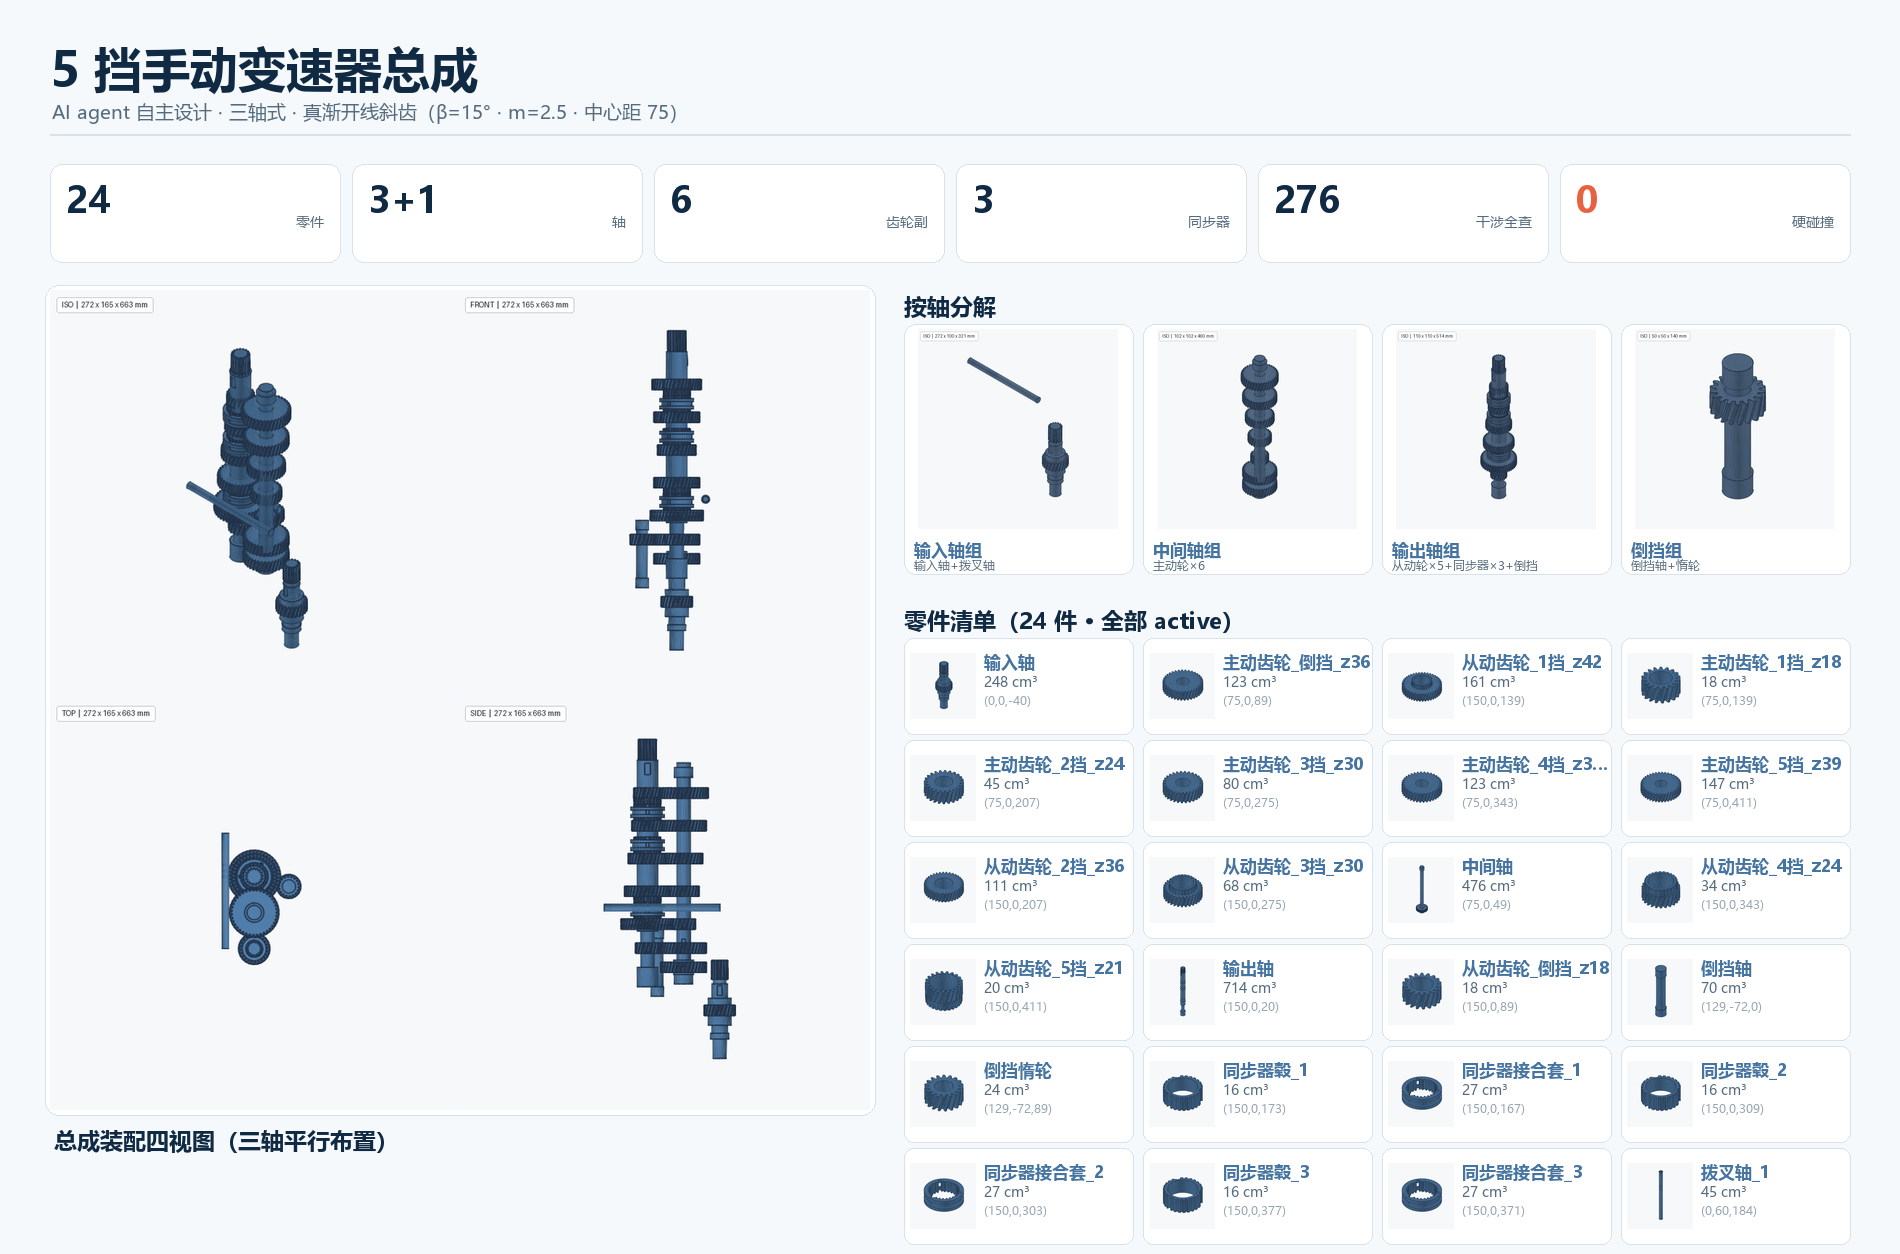
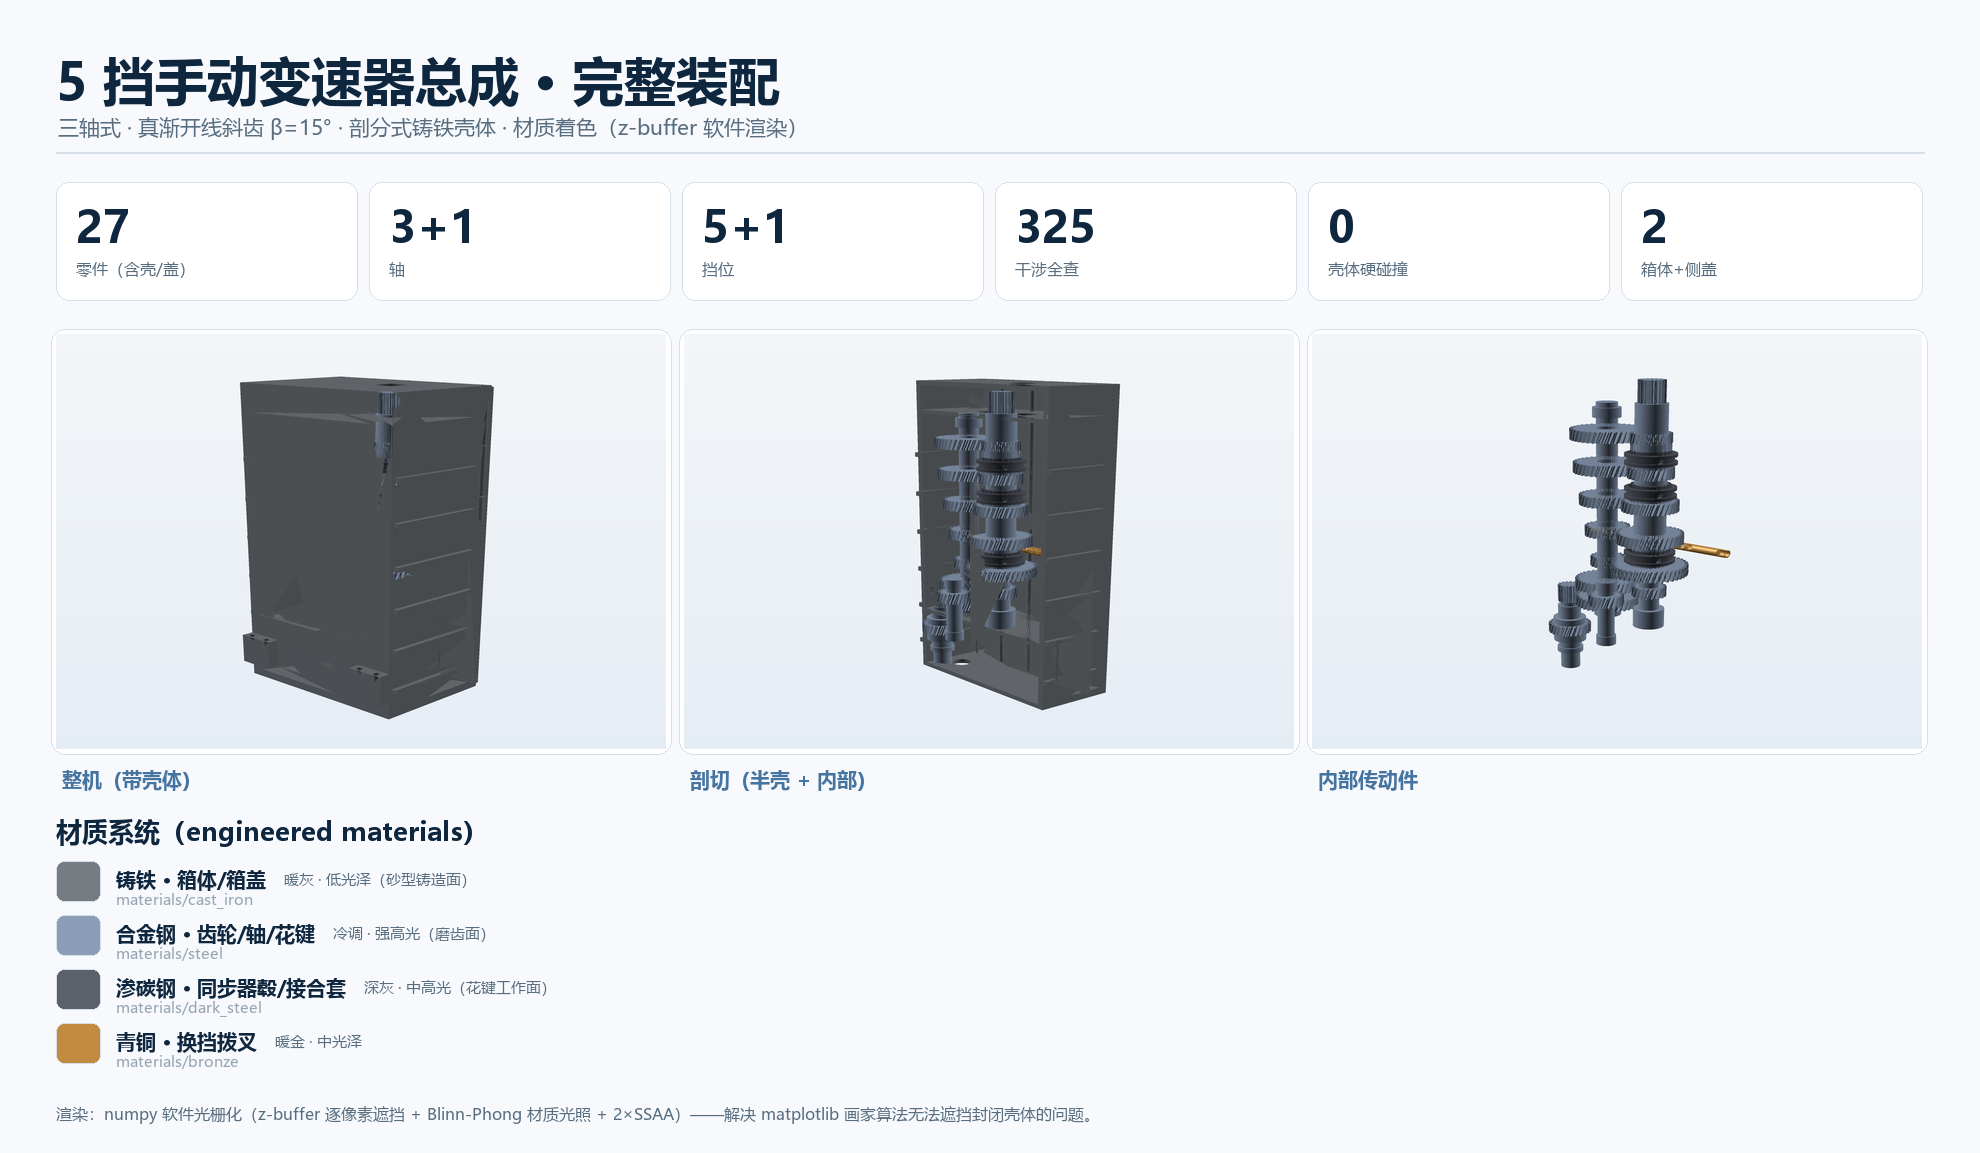
feat: complete transmission with housing + material rendering
Housing designed from the real assembly (envelope + measured shaft
journals): split cast-iron case with a +Y assembly opening, bolted side
cover, -Z input-shaft bearing housing, +Z output bearing housing, two
internal bearing webs, M8 flange bolt pattern, two mounting feet and
external stiffening ribs. Interference: 325 pairs, 0 housing hard
collisions (the input-shaft integral gear needed a widened web bore).

Rendered with the new kernel material system + z-buffer software
renderer: full case / cutaway (half shell) / internals views, with cast
iron, steel, dark carburised steel and bronze reading distinctly. Poster
and cutaway added to the landing page and README.

diff --git a/docs/index.html b/docs/index.html
@@ -559,8 +559,8 @@
     <span class="eyebrow-section">Transmission</span>
     <h2 class="section-title">5 挡手动<em>变速器总成</em></h2>
     <p class="section-subtitle">
-      同一 harness 一次设计出的三轴式手动变速器：输入/中间/输出三轴 + 倒挡轴，5 对常啮合<strong>真渐开线斜齿</strong>（β=15°，m=2.5，中心距 75）、倒挡惰轮、3 套同步器（毂+接合套）、换挡拨叉轴。
-      <br/>实测 24 件 / 276 对干涉全查 / 11 对啮合与配合按 category 豁免 / <strong>硬碰撞 0</strong>。
+      完整变速器总成：输入/中间/输出三轴 + 倒挡轴，5 对常啮合<strong>真渐开线斜齿</strong>（β=15°，m=2.5，中心距 75）、倒挡惰轮、3 套同步器、换挡拨叉，外加<strong>剖分式铸铁壳体 + 侧盖</strong>。
+      <br/>实测 27 件 / 325 对干涉全查 / <strong>壳体硬碰撞 0</strong> · 材质着色（铸铁/钢/青铜，z-buffer 软件渲染）。
     </p>
     <div style="text-align:center;">
       <img src="images/varen-transmission-visual.png" alt="5 挡手动变速器总成可视化：装配四视图 + 24 个零件缩略图 + 指标" loading="lazy" style="width:100%;max-width:1180px;border:1px solid var(--line);border-radius:14px;box-shadow:0 20px 48px -20px rgba(4,17,31,0.26);"/>

diff --git a/scripts/build_transmission_housing.py b/scripts/build_transmission_housing.py
@@ -1,0 +1,119 @@
+"""5 挡手动变速器箱体生成器（剖分壳体 + 侧盖）。
+
+依据实际装配包络与轴颈实测尺寸设计：
+- 内腔 = 内部件包络 + 5mm 径向间隙
+- 壁厚 10mm；+Y 侧开口（装配/检修口）+ 螺栓侧盖
+- -Z 端壁：输入轴承座孔；+Z 端壁：输出轴承座孔
+- 2 道内部轴承隔板：Z 0~9（输入+倒挡）、Z 476~485（中间轴+输出）
+- 侧盖法兰 M8 螺栓孔；壳体底部 2 个安装底脚 + 加强筋
+
+用法: .\\.venv\\Scripts\\python.exe scripts/build_transmission_housing.py <out_dir>
+"""
+from __future__ import annotations
+
+import sys
+from pathlib import Path
+
+from build123d import Box, Cylinder, Pos, export_step
+
+# ---- 实测几何 ----
+# 内部件包络: X -32.5..240, Y -97..68, Z -129..534
+CLEAR, WALL, WEB = 5.0, 10.0, 9.0
+CAV_X = (-37.5, 245.0)
+CAV_Y = (-102.0, 73.0)
+CAV_Z = (-134.0, 539.0)
+OUT_X = (CAV_X[0] - WALL, CAV_X[1] + WALL)
+OUT_Y = (CAV_Y[0] - WALL, CAV_Y[1] + WALL)
+OUT_Z = (CAV_Z[0] - WALL, CAV_Z[1] + WALL)
+
+# 轴系（X, Y）
+INPUT = (0.0, 0.0)
+LAY = (75.0, 0.0)
+OUT = (150.0, 0.0)
+REV = (129.375, -72.0)
+# 轴颈半径（实测）
+R_INPUT, R_LAY, R_OUT, R_REV = 16.5, 21.5, 23.5, 15.5
+
+
+def box(x0, x1, y0, y1, z0, z1):
+    return Pos((x0 + x1) / 2, (y0 + y1) / 2, (z0 + z1) / 2) * Box(x1 - x0, y1 - y0, z1 - z0)
+
+
+def cyl(cx, cy, r, z0, z1):
+    return Pos(cx, cy, (z0 + z1) / 2) * Cylinder(r, z1 - z0)
+
+
+def build_case():
+    # 外长方体
+    case = box(*OUT_X, *OUT_Y, *OUT_Z)
+    # 内腔（+Y 方向开通，形成装配口）
+    case -= box(CAV_X[0], CAV_X[1], CAV_Y[0], OUT_Y[1] + 60, CAV_Z[0], CAV_Z[1])
+    # 两道内部轴承隔板（留在腔内）
+    # 隔板 1（Z 0~9）：输入轴一体齿轮在此（齿顶 r32.5）→ 孔放大到 r38 让位，
+    # 输入轴由 -Z 端壁轴承座支撑；倒挡轴在此进入 → 精确轴承孔。
+    # 隔板 2（Z 476~485）：支撑中间轴与输出轴尾部。
+    for z0, z1, bores in (
+        (0.0, WEB, [(INPUT, 38.0), (REV, R_REV)]),
+        (476.0, 485.0, [(LAY, R_LAY), (OUT, R_OUT)]),
+    ):
+        web = box(CAV_X[0], CAV_X[1], CAV_Y[0], CAV_Y[1], z0, z1)
+        for (cx, cy), r in bores:
+            web -= cyl(cx, cy, r, z0 - 1, z1 + 1)
+        case += web
+    # -Z 端壁轴承座孔（输入轴，向腔内做承窝）
+    case -= cyl(INPUT[0], INPUT[1], R_INPUT, OUT_Z[0] - 1, CAV_Z[0] + 12)
+    # +Z 端壁轴承座孔（输出轴）
+    case -= cyl(OUT[0], OUT[1], R_OUT, CAV_Z[1] - 12, OUT_Z[1] + 1)
+    # 侧盖螺栓法兰（+Y 面外凸缘）
+    case += box(*OUT_X, OUT_Y[1], OUT_Y[1] + 10, OUT_Z[0], OUT_Z[1])
+    case -= box(CAV_X[0] - 2, CAV_X[1] + 2, OUT_Y[1] - 1, OUT_Y[1] + 11, CAV_Z[0] + 2, CAV_Z[1] - 2)
+    # 法兰螺栓孔（M8 通孔，沿 Z 与 X 边布置）
+    bolt_xs = [OUT_X[0] + 12 + i * (OUT_X[1] - OUT_X[0] - 24) / 4 for i in range(5)]
+    bolt_zs = [OUT_Z[0] + 14 + i * (OUT_Z[1] - OUT_Z[0] - 28) / 6 for i in range(7)]
+    for bx in bolt_xs:
+        case -= cyl(bx, OUT_Y[1] + 5, 4.5, OUT_Z[0] - 1, OUT_Z[1] + 1)
+    for bz in bolt_zs:
+        case -= cyl(OUT_X[0] + 5, OUT_Y[1] + 5, 4.5, bz - 1, bz + 1)
+        case -= cyl(OUT_X[1] - 5, OUT_Y[1] + 5, 4.5, bz - 1, bz + 1)
+    # 安装底脚（-Y 面外侧两个）
+    for fx0, fx1 in ((OUT_X[0], OUT_X[0] + 62), (OUT_X[1] - 62, OUT_X[1])):
+        case += box(fx0, fx1, OUT_Y[0] - 20, OUT_Y[0] + 4, OUT_Z[0] + 40, OUT_Z[0] + 108)
+        for hx in (fx0 + 14, fx1 - 14):
+            case -= cyl(hx, OUT_Y[0] - 12, 5.5, OUT_Z[0] + 28, OUT_Z[0] + 120)
+    # 外壁加强筋（-Y 面与 X 侧面）
+    for i in range(6):
+        gz = OUT_Z[0] + 60 + i * 92
+        case += box(OUT_X[0] - 8, OUT_X[0], OUT_Y[0] + 6, OUT_Y[1] - 24, gz, gz + 10)
+        case += box(OUT_X[1], OUT_X[1] + 8, OUT_Y[0] + 6, OUT_Y[1] - 24, gz, gz + 10)
+    return case
+
+
+def build_cover():
+    # 侧盖：盖住 +Y 装配口
+    cv = box(OUT_X[0] + 4, OUT_X[1] - 4, OUT_Y[1] + 10, OUT_Y[1] + 20, OUT_Z[0] + 4, OUT_Z[1] - 4)
+    bolt_xs = [OUT_X[0] + 12 + i * (OUT_X[1] - OUT_X[0] - 24) / 4 for i in range(5)]
+    bolt_zs = [OUT_Z[0] + 14 + i * (OUT_Z[1] - OUT_Z[0] - 28) / 6 for i in range(7)]
+    for bx in bolt_xs:
+        cv -= cyl(bx, OUT_Y[1] + 15, 4.5, OUT_Z[0], OUT_Z[1])
+    for bz in bolt_zs:
+        cv -= cyl(OUT_X[0] + 5, OUT_Y[1] + 15, 4.5, bz - 1, bz + 1)
+        cv -= cyl(OUT_X[1] - 5, OUT_Y[1] + 15, 4.5, bz - 1, bz + 1)
+    return cv
+
+
+def main() -> int:
+    out = Path(sys.argv[1]) if len(sys.argv) > 1 else Path(".")
+    out.mkdir(parents=True, exist_ok=True)
+    case = build_case()
+    cover = build_cover()
+    for name, part in (("箱体", case), ("箱体盖", cover)):
+        bb = part.bounding_box()
+        print(f"{name}: solids={len(part.solids())} vol={part.volume/1000:.1f} cm³ "
+              f"bbox=({bb.size.X:.0f},{bb.size.Y:.0f},{bb.size.Z:.0f})")
+        export_step(part, str(out / f"v001_{name}.step"))
+    print("written to", out)
+    return 0
+
+
+if __name__ == "__main__":
+    sys.exit(main())

diff --git a/README.md b/README.md
@@ -20,7 +20,7 @@
 </p>
 
 <p align="center">
-  5 挡手动变速器总成（三轴式 · 真渐开线斜齿 β=15° · 24 件 / 硬碰撞 0）：<br/>
+  5 挡手动变速器总成（三轴式 · 真渐开线斜齿 β=15° · 剖分铸铁壳体 · 27 件 / 材质渲染）：<br/>
   <img src="docs/images/varen-transmission-visual.png" alt="5 挡手动变速器总成可视化：装配四视图 + 24 零件缩略图" width="860"/>
 </p>
 
